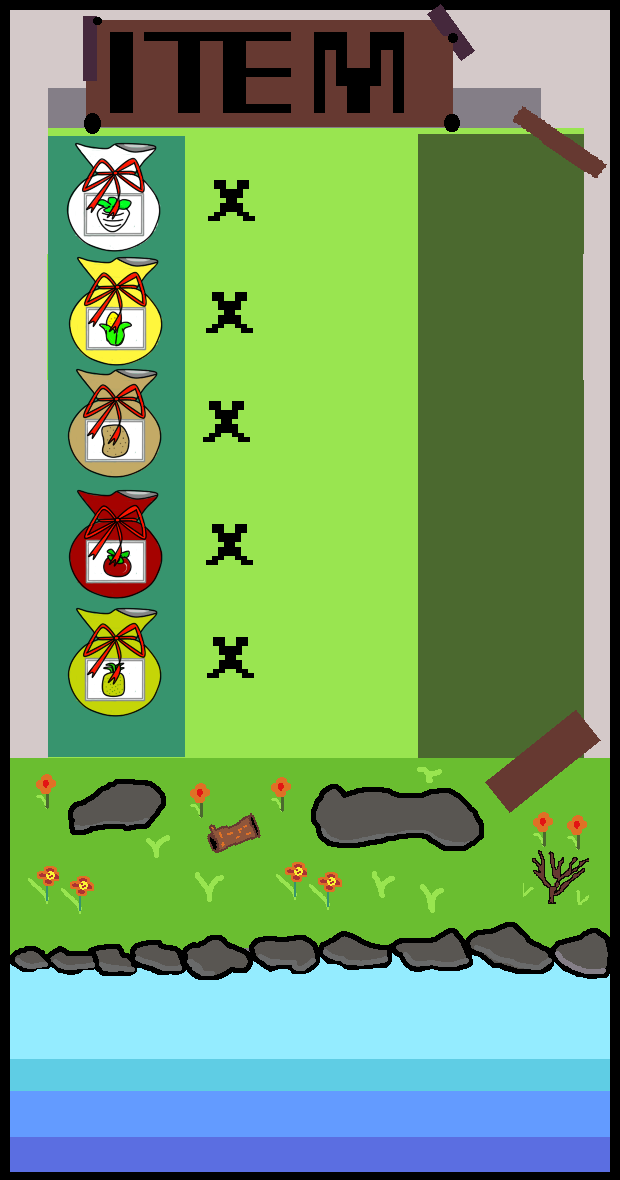
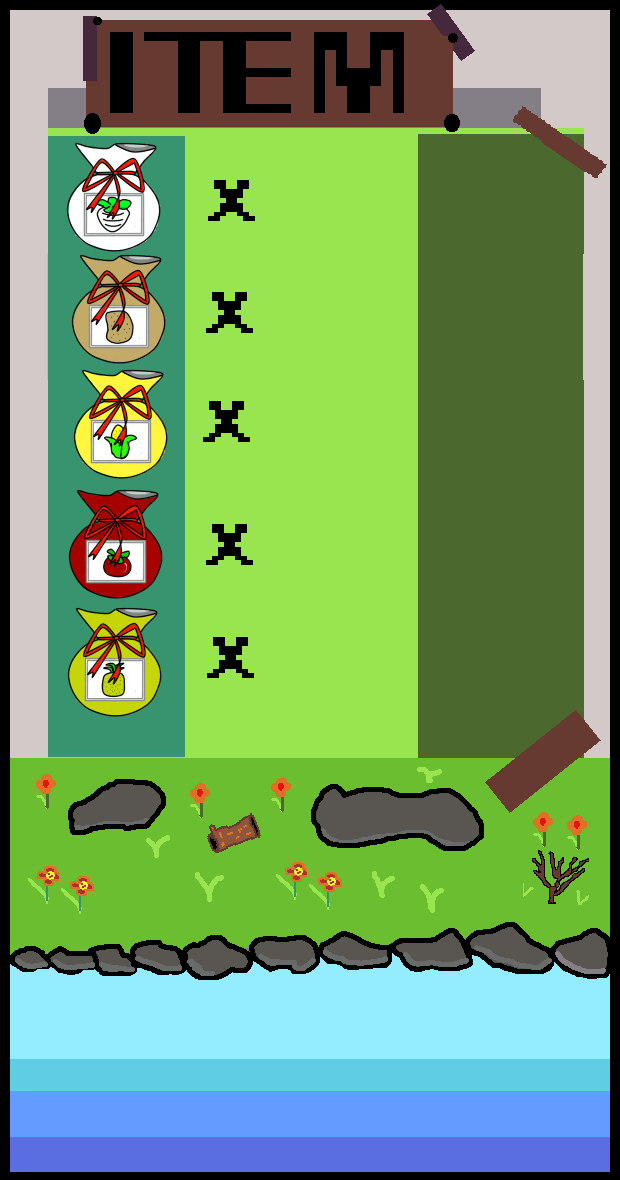
Fix buy potato bug, new inventory and shop pop-up.

Changed region(s): [[0.0919, 0.2136, 0.2758, 0.4271]]

diff --git a/app/js/Game.js b/app/js/Game.js
@@ -407,7 +407,7 @@ WWFarmer.Game.prototype = {
 		buyButton.anchor.set(0.5);
 		buyButton = this.shopPopUp.addChild(this.make.button(501, 422, "shop-buy-button", this.buyCorn, this, 1, 0, 1, 0));
 		buyButton.anchor.set(0.5);
-		buyButton = this.shopPopUp.addChild(this.make.button(501, 534, "shop-buy-button", this.buyPotato, this, 1, 0, 1, 0));
+		buyButton = this.shopPopUp.addChild(this.make.button(501, 534, "shop-buy-button", this.buyTomato, this, 1, 0, 1, 0));
 		buyButton.anchor.set(0.5);
 		buyButton = this.shopPopUp.addChild(this.make.button(501, 659, "shop-buy-button", this.buyPineapple, this, 1, 0, 1, 0));
 		buyButton.anchor.set(0.5);
@@ -420,35 +420,35 @@ WWFarmer.Game.prototype = {
 		this.add.tween(this.shopPopUp.scale).to({x: 1, y: 1}, 250, "Linear", true);
 	},
 	buyTunip: function () {
-		if ( this.money >= plants.tunip.seedCost) {
+		if (this.money >= plants.tunip.seedCost) {
 			inventory.tunip++;
 			this.money -= plants.tunip.seedCost;
 			this.updateStatus();
 		}
 	},
 	buyPotato: function () {
-		if ( this.money >= plants.potato.seedCost) {
+		if (this.money >= plants.potato.seedCost) {
 			inventory.potato++;
 			this.money -= plants.potato.seedCost;
 			this.updateStatus();
 		}
 	},
 	buyCorn: function () {
-		if ( this.money >= plants.corn.seedCost) {
+		if (this.money >= plants.corn.seedCost) {
 			inventory.corn++;
 			this.money -= plants.corn.seedCost;
 			this.updateStatus();
 		}
 	},
-	buyPotato: function () {
-		if ( this.money >= plants.tomato.seedCost) {
+	buyTomato: function () {
+		if (this.money >= plants.tomato.seedCost) {
 			inventory.tomato++;
 			this.money -= plants.tomato.seedCost;
 			this.updateStatus();
 		}
 	},
 	buyPineapple: function () {
-		if ( this.money >= plants.pineapple.seedCost) {
+		if (this.money >= plants.pineapple.seedCost) {
 			inventory.pineapple++;
 			this.money -= plants.pineapple.seedCost;
 			this.updateStatus();
